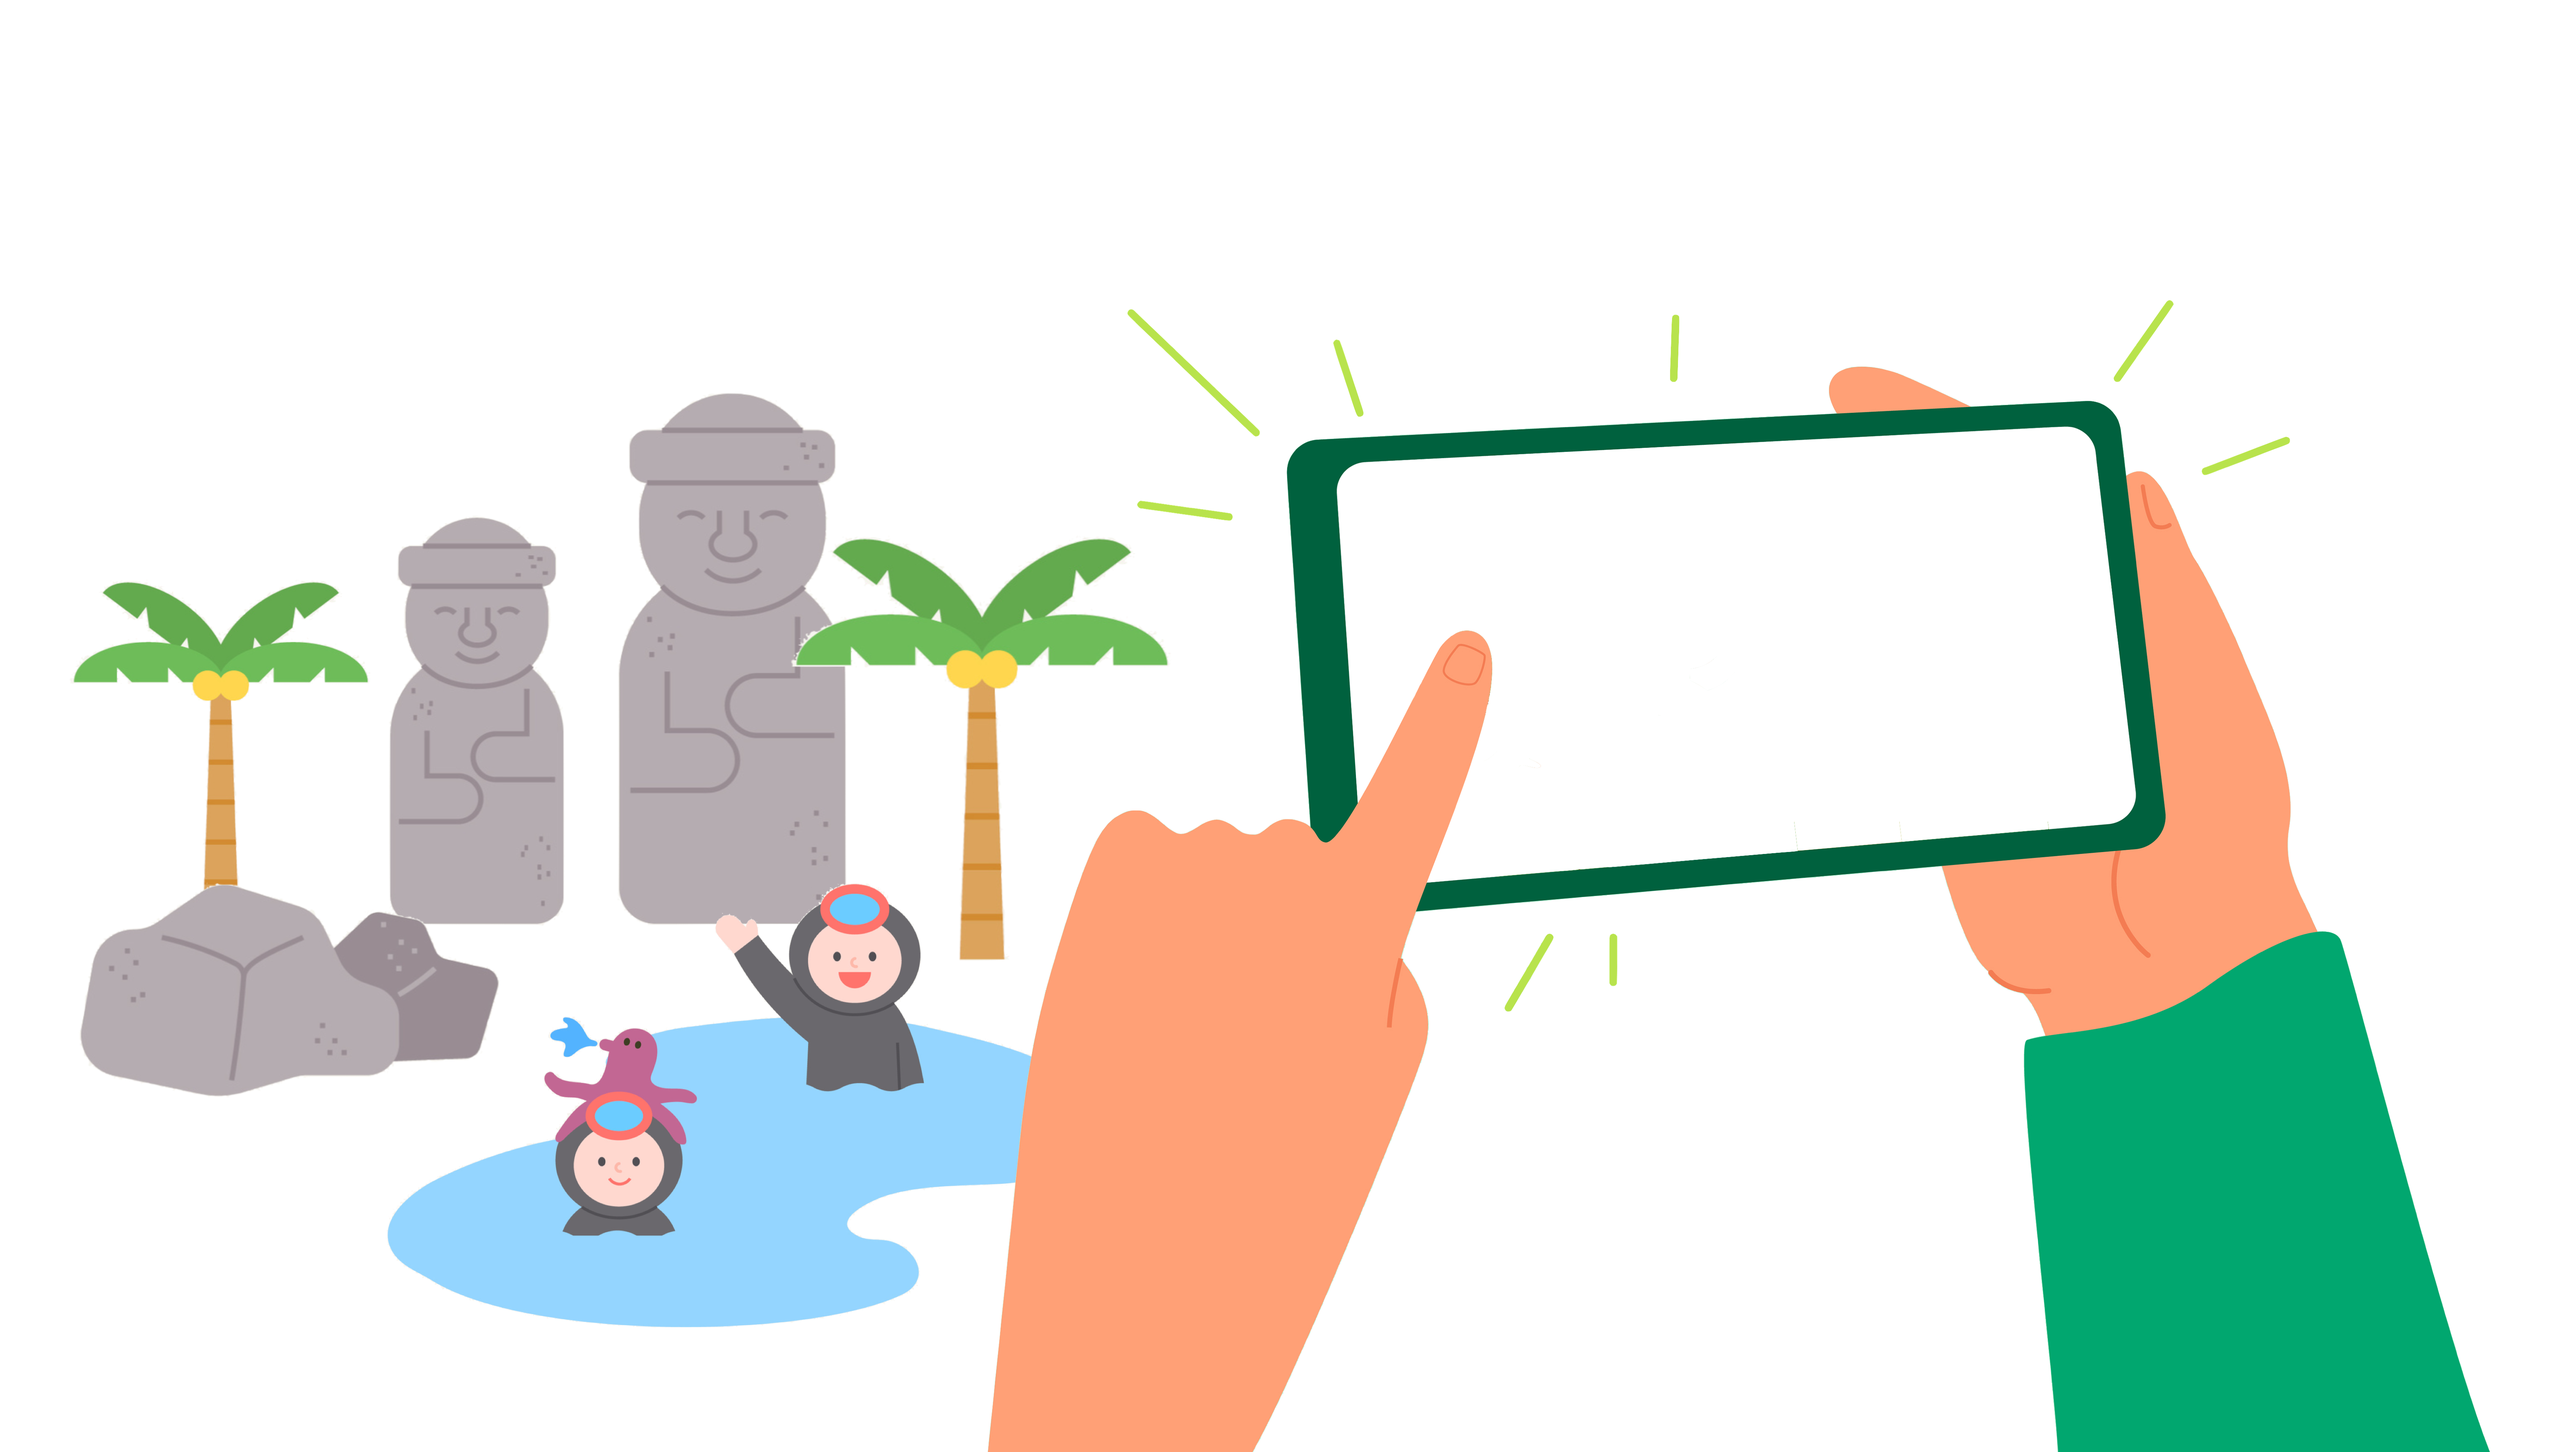
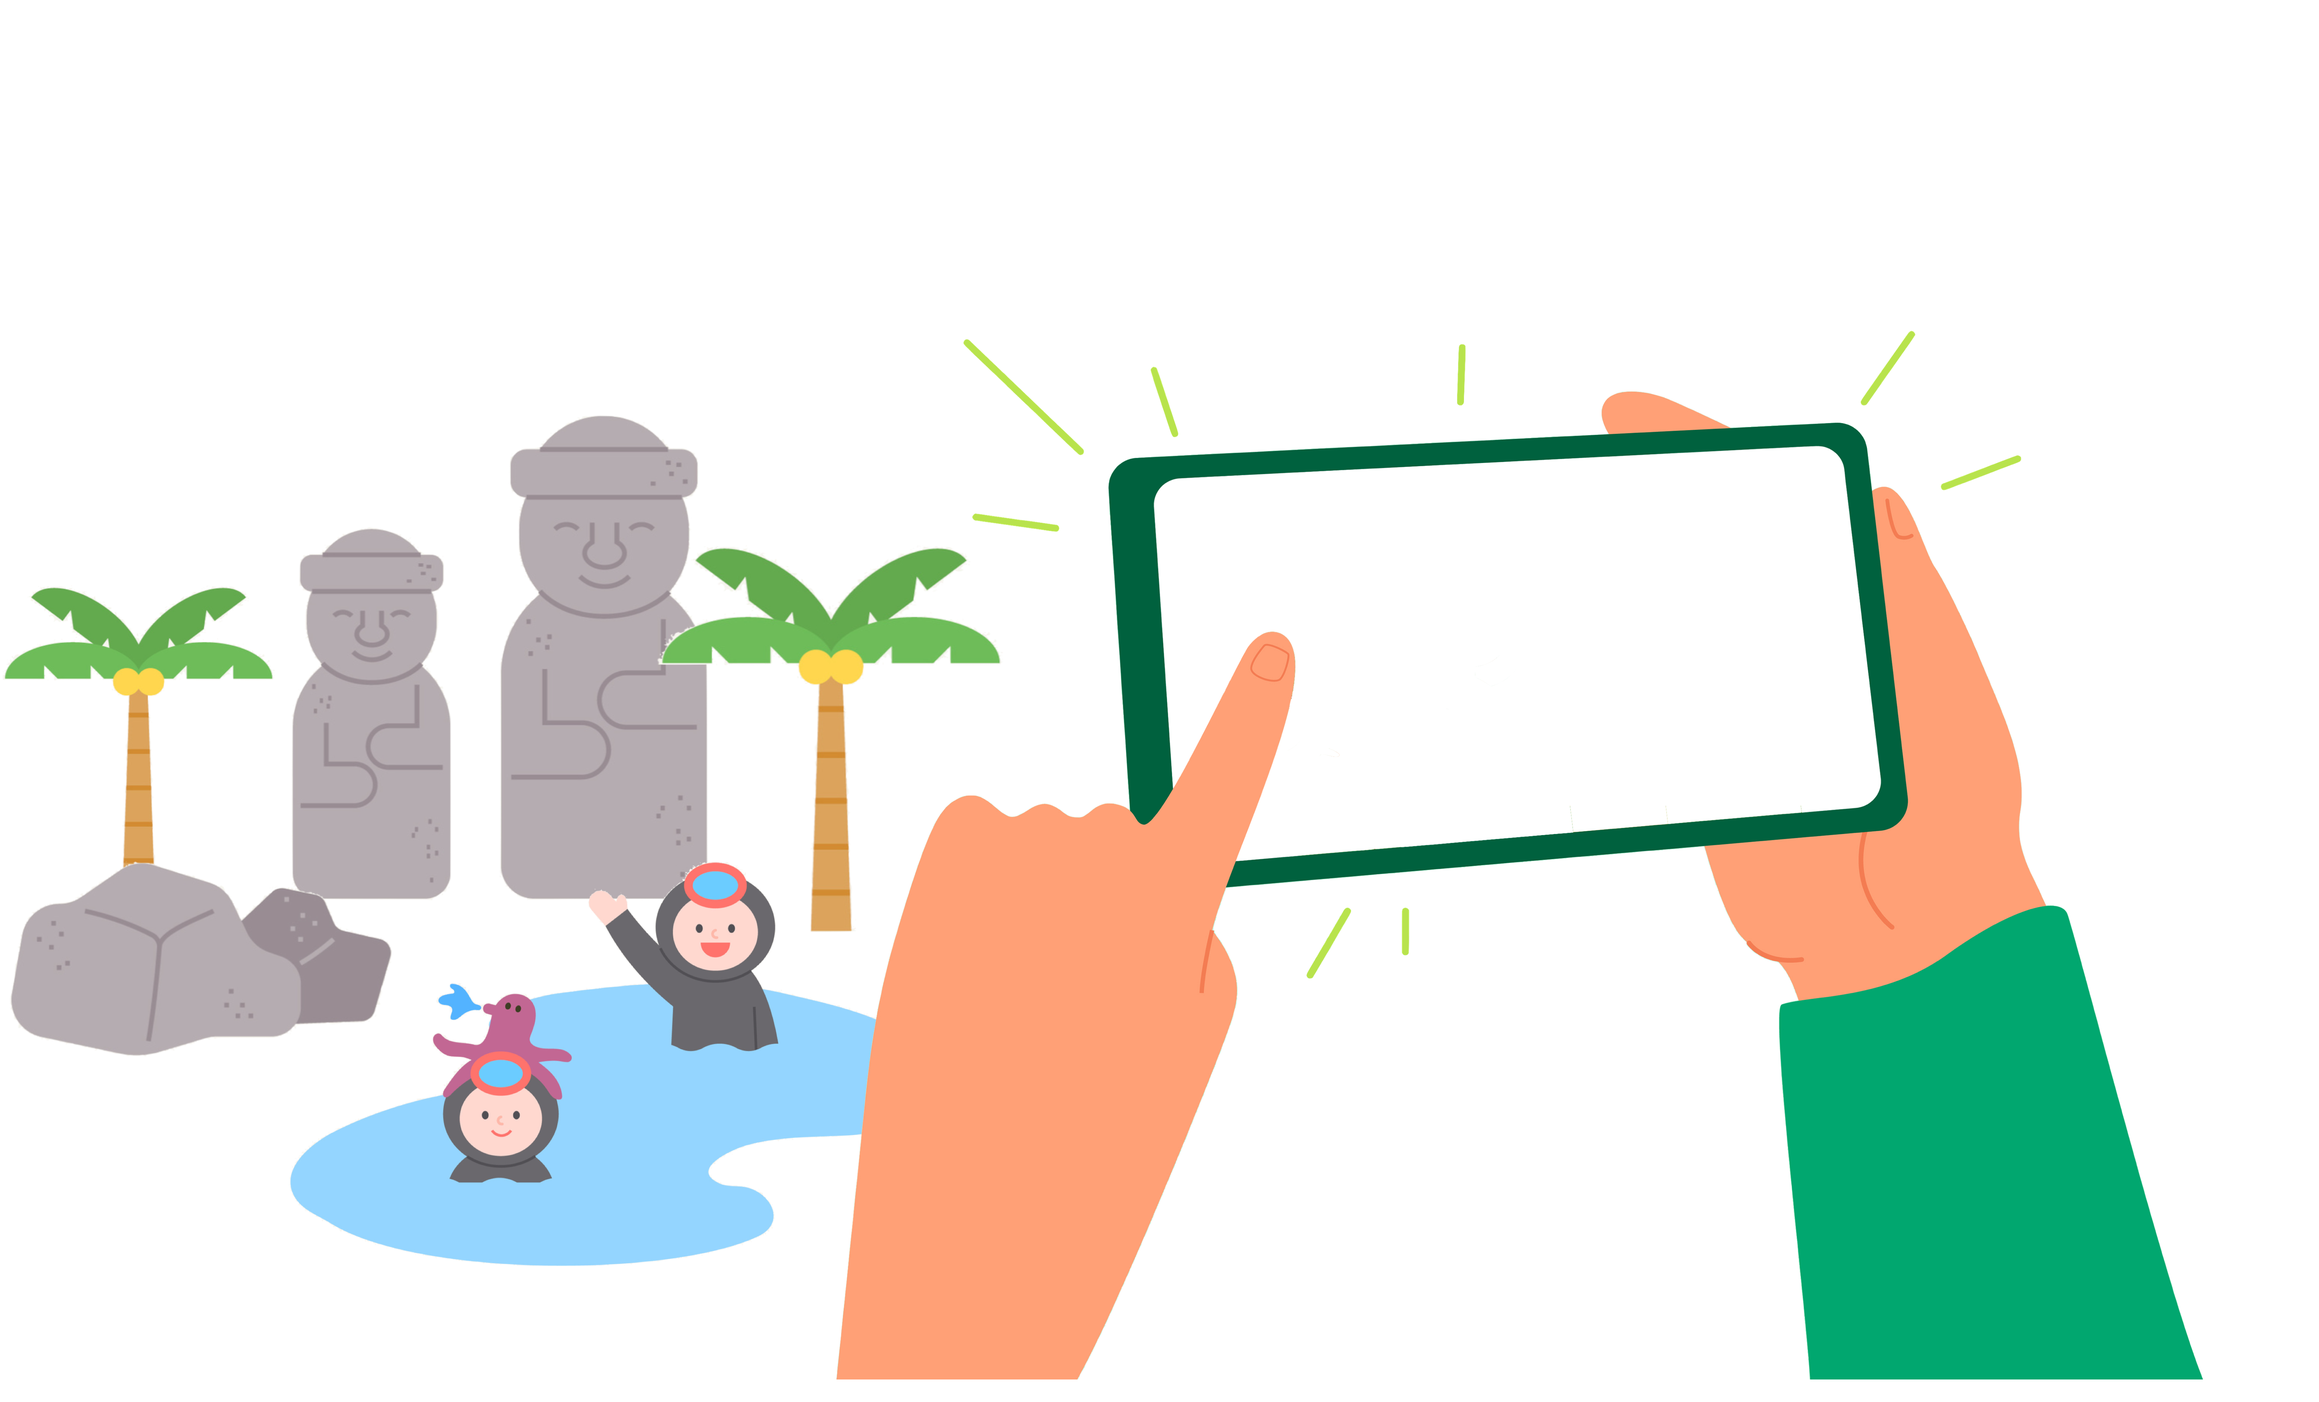
feat : pic 수정 / height 수정

diff --git a/front/src/page/intro/Description.jsx b/front/src/page/intro/Description.jsx
@@ -45,11 +45,17 @@ const DescContainer = styled.div`
 
 const ImgContainer = styled.div`
   width: 50%;
+  padding-top: 3%;
+  display: flex;
+  flex-direction: column;
+  justify-content: center;
+  align-items: center;
   text-align: center;
 `;
 
 const DescrptionCard = styled.div`
   width: 50%;
+  min-height: 380px;
   background-color: ${({ theme }) => theme.colors.gray01};
   display: flex;
   flex-direction: column;
